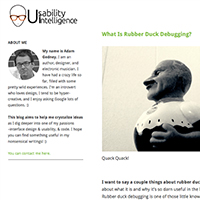
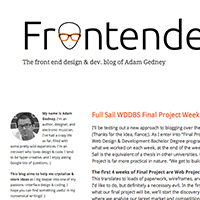
changed blog image and url. Corrected some lightbox captions

diff --git a/index.php b/index.php
@@ -63,18 +63,18 @@
 					<div class="page-inner">
 						<h1 class="red">I like...</h1>
 
-						<p>designing websites, logos & print collateral, <span class="red">being silly,</span> writing music & books. I build things, google things, think, read, & sometimes I update my <a class="underline light-gray" target="_blank" href="http://usabilityintelligence.com" >blog</a> too.</p>
+						<p>designing websites, logos & print collateral, <span class="red">being silly,</span> writing music & books. I build things, google things, think, read, & sometimes I update my <a class="underline light-gray" target="_blank" href="http://frontenderwear.com" >blog</a> too.</p>
 
 						<div class="img-container">
 							<a data-proj="I build websites & stuff" class="zig-zag animated" target="_blank" href="#"><span></span><img src="images/angelfire-thumb.jpg" title="My rendition of angelfire.com. Check it in my work section below." alt="likes image 1"/></a>
-							
+
 							<a data-proj="I like designing stuff" class="zig-zag-1 animated" target="_blank" href="#"><span></span><img src="images/pangea-thumb.jpg" title="Graphic design, & just design in general, are a passion of mine." alt="likes image 2"/></a>
-							
-							<a data-proj="This is Julie, my wife & stuff" class="zig-zag-2 animated" target="_blank" href="#"><span></span><img src="images/silly-thumb.jpg" title="I finally found the woman of my dreams. I couldn't be luckier. <3" alt="likes image 3"/></a>
-							
-							<a data-proj="Check out the music I've released & stuff" class="zig-zag-3 animated" target="_blank" href="https://itunes.apple.com/us/artist/adam-shields/id637020445"><span></span><img src="images/itunes-thumb.jpg" title="I've been writing electronic music for 20 years now. Ugh. I'm getting old!" alt="likes image 4"/></a>
-							
-							<a data-proj="This is my blog & stuff" class="zig-zag-4 animated" target="_blank" href="http://usabilityintelligence.com"><span></span><img src="images/ui-thumb.jpg" title="That's my blog, but you can find my book here: http://lifestyling.adamgedney.com" alt="likes image 5"/></a>
+
+							<a data-proj="This is Julie, my wife" class="zig-zag-2 animated" target="_blank" href="#"><span></span><img src="images/silly-thumb.jpg" title="I finally found the woman of my dreams. I couldn't be luckier. <3" alt="likes image 3"/></a>
+
+							<a data-proj="Check out the music I've released" class="zig-zag-3 animated" target="_blank" href="https://itunes.apple.com/us/artist/adam-shields/id637020445"><span></span><img src="images/itunes-thumb.jpg" title="I've been writing electronic music for 20 years now. Ugh. I'm getting old!" alt="likes image 4"/></a>
+
+							<a data-proj="This is my blog" class="zig-zag-4 animated" target="_blank" href="http://frontenderwear.com"><span></span><img src="images/ui-thumb.jpg" title="That's my blog, but you can find my book here: http://lifestyling.adamgedney.com" alt="likes image 5"/></a>
 						</div><!-- /.like-img-container-->
 					</div><!-- /.page-inner-->
 				</div><!-- /.page-->
@@ -111,7 +111,7 @@
 							<img class="terminal_l animated" src="images/logos/terminal.png" title="Terminal is for nerds. Unix Shell all the way!" alt="web logos"/>
 							<img class="wp_l animated" src="images/logos/wp.png" title="Wordpress. We love your bloat. ;)" alt="web logos"/>
 						</div><!-- /.logo_cloud-->
-						
+
 					</div><!-- /.page-inner-->
 				</div><!-- /.page-->
 
@@ -126,51 +126,51 @@
 						<h3>Front-end Projects</h3>
 						<div class="img-container">
 								<a data-proj="SGWebMarketing.com" href="work/sgwebmarketing.html" ><span></span><img src="images/sgweb-thumb.jpg" alt="love image 1"/></a>
-						
+
 								<a data-proj="Gimmesauce.com" href="work/gimmesauce.html" ><span></span><img src="images/gimme-thumb.jpg" alt="love image 4"/></a>
 
 								<a data-proj="Maceoplexmix.com" href="work/maceoplexmix.html" ><span></span><img src="images/maceo-thumb.jpg" alt="love image 2"/></a>
 
 								<a data-proj="Angelfire.com redesign" href="work/angelfire-redesign.html" ><span></span><img src="images/angelfireMobile-thumb.jpg" alt="love image 3"/></a>
-								
+
 								<a data-proj="Jericho Canyon Vineyard" href="work/jericho-vineyard.html" ><span></span><img src="images/jericho-thumb.jpg" alt="love image 5"/></a>
-							
+
 						</div><!-- /.love-img-container-->
 
 						<h3>Development Projects</h3>
 						<div class="img-container">
 							<a data-proj="Bloggity.org" href="work/bloggity-cms.html" ><span></span><img src="images/bloggityMac-thumb.jpg" alt="love image 1"/></a>
-							
+
 							<a data-proj="Picasa JQuery Plugin" href="work/simple-picasa.html" ><span></span><img src="images/picasa-thumb.jpg" alt="love image 2"/></a>
-							
+
 							<a data-proj="Mantissa Soft Synth" href="work/mantissa-synth.html" ><span></span><img src="images/mantissaSynth-thumb.jpg" alt="love image 3"/></a>
-							
+
 							<a data-proj="Madserv.us Auth API" href="work/madserv.html" ><span></span><img src="images/madserv-thumb.jpg" alt="love image 5"/></a>
 
 							<a data-proj="Suprvideo.com Converter" href="work/suprvideo.html" ><span></span><img src="images/suprvideo-thumb.jpg" alt="love image 4"/></a>
-						
+
 						</div><!-- /.love-img-container-->
 
 						<h3>Print / Graphic Design Projects</h3>
 						<div class="img-container print_thumbs last">
 							<!-- <img src="images/aubert-thumb.jpg" alt="love image 1"/>
-							
+
 							<img src="images/orbits-thumb.jpg" alt="love image 2"/>
-							
+
 							<img src="images/stzosima-thumb.jpg" alt="love image 3"/>
-							
+
 							<img src="images/meditrinaBiz-thumb.jpg" alt="love image 4"/>
-							
+
 							<img src="images/uiLogo-thumb.jpg" alt="love image 5"/> -->
 
 							<a data-proj="Marketing Collateral" href="work/aubert-form.html" ><span></span><img src="images/aubert-thumb.jpg" alt="love image 1"/></a>
-							
+
 							<a data-proj="Advertising" href="work/orbitz-class-ad.html" ><span></span><img src="images/orbits-thumb.jpg" alt="love image 2"/></a>
-							
+
 							<a data-proj="Postcard Marketing" href="work/zosima-cards.html" ><span></span><img src="images/stzosima-thumb.jpg" alt="love image 3"/></a>
-							
+
 							<a data-proj="Business Cards" href="work/meditrina-business-cards.html" ><span></span><img src="images/meditrinaBiz-thumb.jpg" alt="love image 4"/></a>
-							
+
 							<a data-proj="Logos" href="work/ui-logo.html" ><span></span><img src="images/uiLogo-thumb.jpg" alt="love image 5"/></a>
 						</div><!-- /.love-img-container-->
 
@@ -186,17 +186,17 @@
 						<p>if you’re interested in hiring me, working with me, or having me manage your next project. I'm not against contract work either.</p>
 
 					</div><!-- /.page-inner-->
-					
+
 						<!-- Google Map -->
 						<div id="map-canvas" >
 						</div><!-- /#map-canvas _ -->
-						
+
 					<div class="page-inner">
 						<div class="contact-body" id="contact">
-							
+
 
 							<div class="contact-content">
-							
+
 							<p><span class="red">I’m interested in working in the West Palm Beach to Miami area.</span>  But, if the opportunity is right, feel free to fly me around the world. <span class="dark-gray">Contact me</span> via this form, by phone, or email, even if it's just to say hi. <!-- <span class="red">&#9786;</span> --></p>
 
 							<p class="info"><span class="red">Adam Shields Gedney</span>
@@ -205,22 +205,22 @@
 
 							<div class="contact-icons">
 								<a class="no-tran" target="_blank" href="http://github.com/adamgedney"><img class="github-icon" src="images/github-icon.png" alt="github icon" /></a>
-								
+
 								<a class="no-tran" target="_blank" href="http://forrst.com"><img class="forrst-icon" src="images/forrst-icon.png" alt="forrst icon" /></a>
-								
+
 								<a class="no-tran" target="_blank" href="http://dribbble.com/adamgedney"><img class="dribbble-icon" src="images/dribbble-icon.png" alt="dribbble icon" /></a>
-								
+
 								<a class="no-tran" target="_blank" href="http://facebook.com/shieldsadam"><img class="fb-icon" src="images/fb-icon.png" alt="facebook icon" /></a>
 
 								<a class="no-tran" target="_blank" href="http://linkedin.adamgedney.com"><img class="linkedin-icon" src="images/linkedin-icon.png" alt="linkedin icon" /></a>
 							</div><!-- /.contact-icons-->
-						
+
 							</div><!-- /.contact-content-->
 
 							<div class="contact-form">
-								<form action="?controller=form" method="post"> 
+								<form action="?controller=form" method="post">
 									<input type="text" name="name" placeholder="FULL NAME"/>
-									
+
 									<input id="email" type="email" name="email" placeholder="EMAIL ADDRESS" />
 									<p class="error email-error"></p>
 
@@ -231,12 +231,12 @@
 
 									<input id="contact-submit-button" type="submit" value="CONTACT ME"/>
 								</form>
-						
+
 							</div><!-- /.contact-form-->
 						</div><!-- /.contact-body-->
 					</div><!-- /.page-inner-->
-				</div><!-- /.page-->	
-			</div><!-- /.container-->	
+				</div><!-- /.page-->
+			</div><!-- /.container-->
 
 		<footer>
 		<p><span class="red">&copy;2014</span> adamgedney.com</p>
@@ -247,6 +247,6 @@
 		<script src="js/jquery.event.special.js"></script>
   		<script src="js/jquery.easing.min.js"></script>
   		<script src="js/jquery.scrollsnap.js"></script>
-		<script src="js/main.js"></script> 
+		<script src="js/main.js"></script>
 	</body>
 </html>
